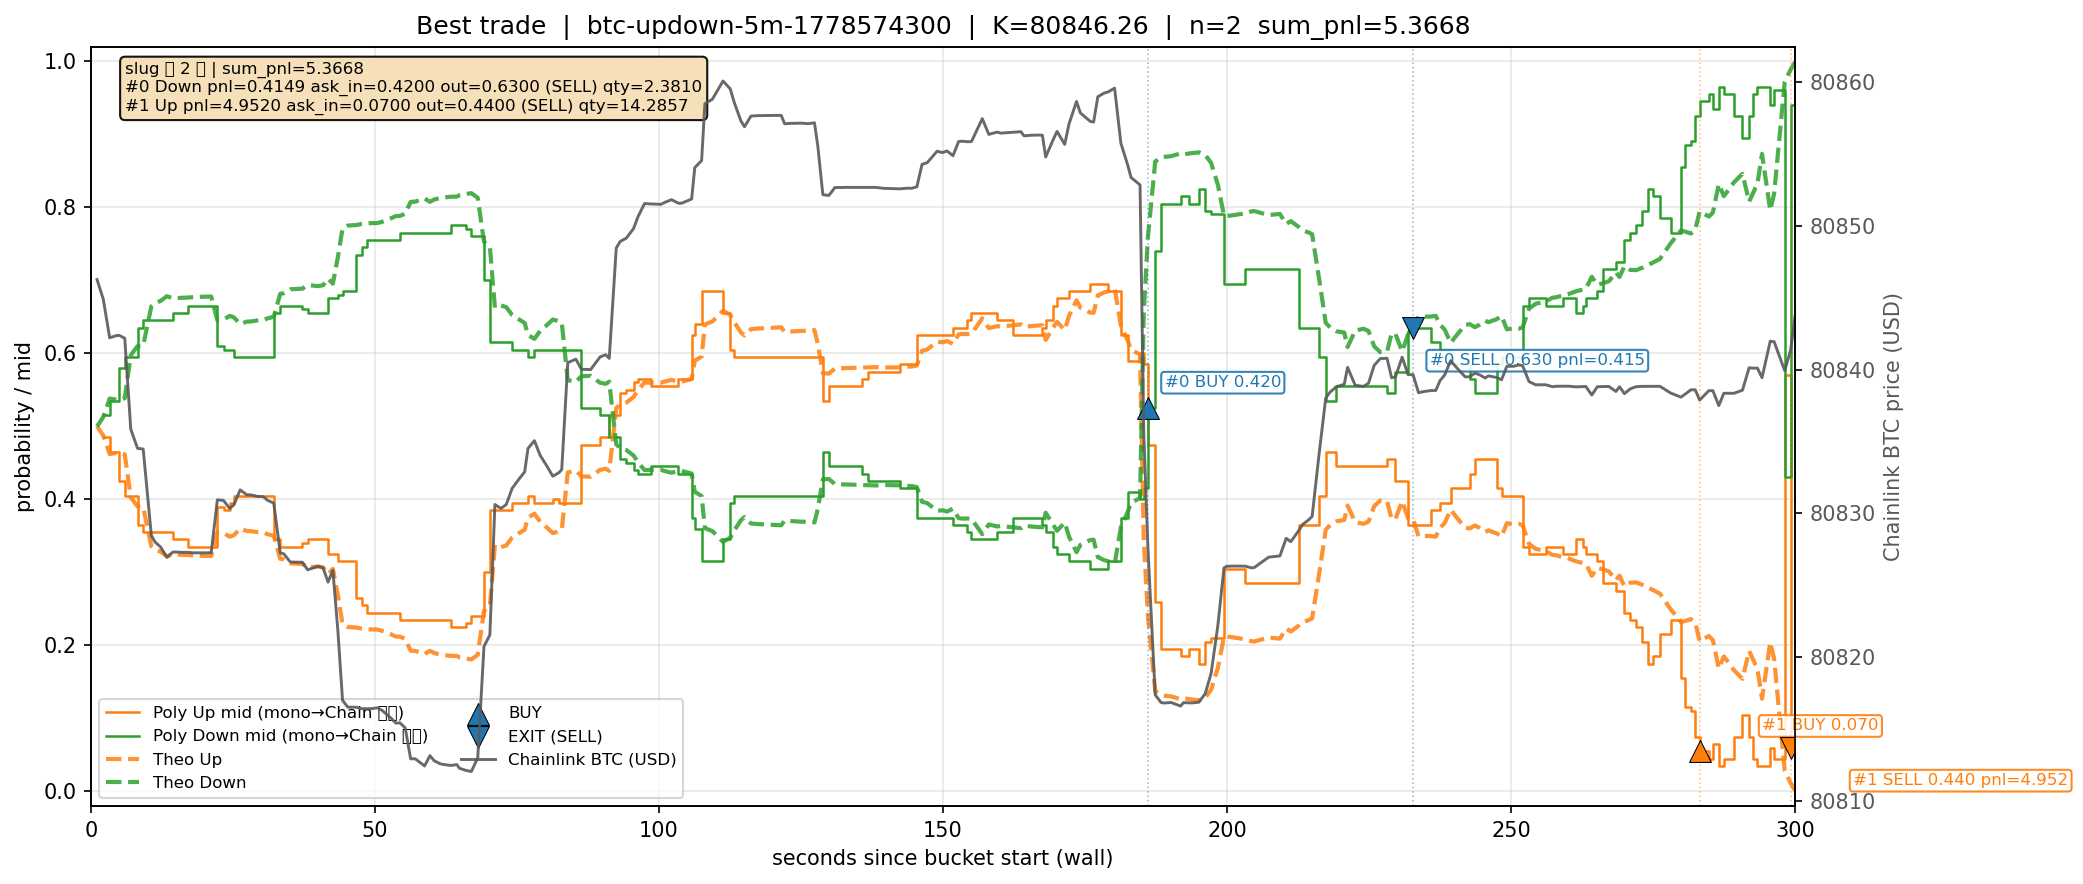
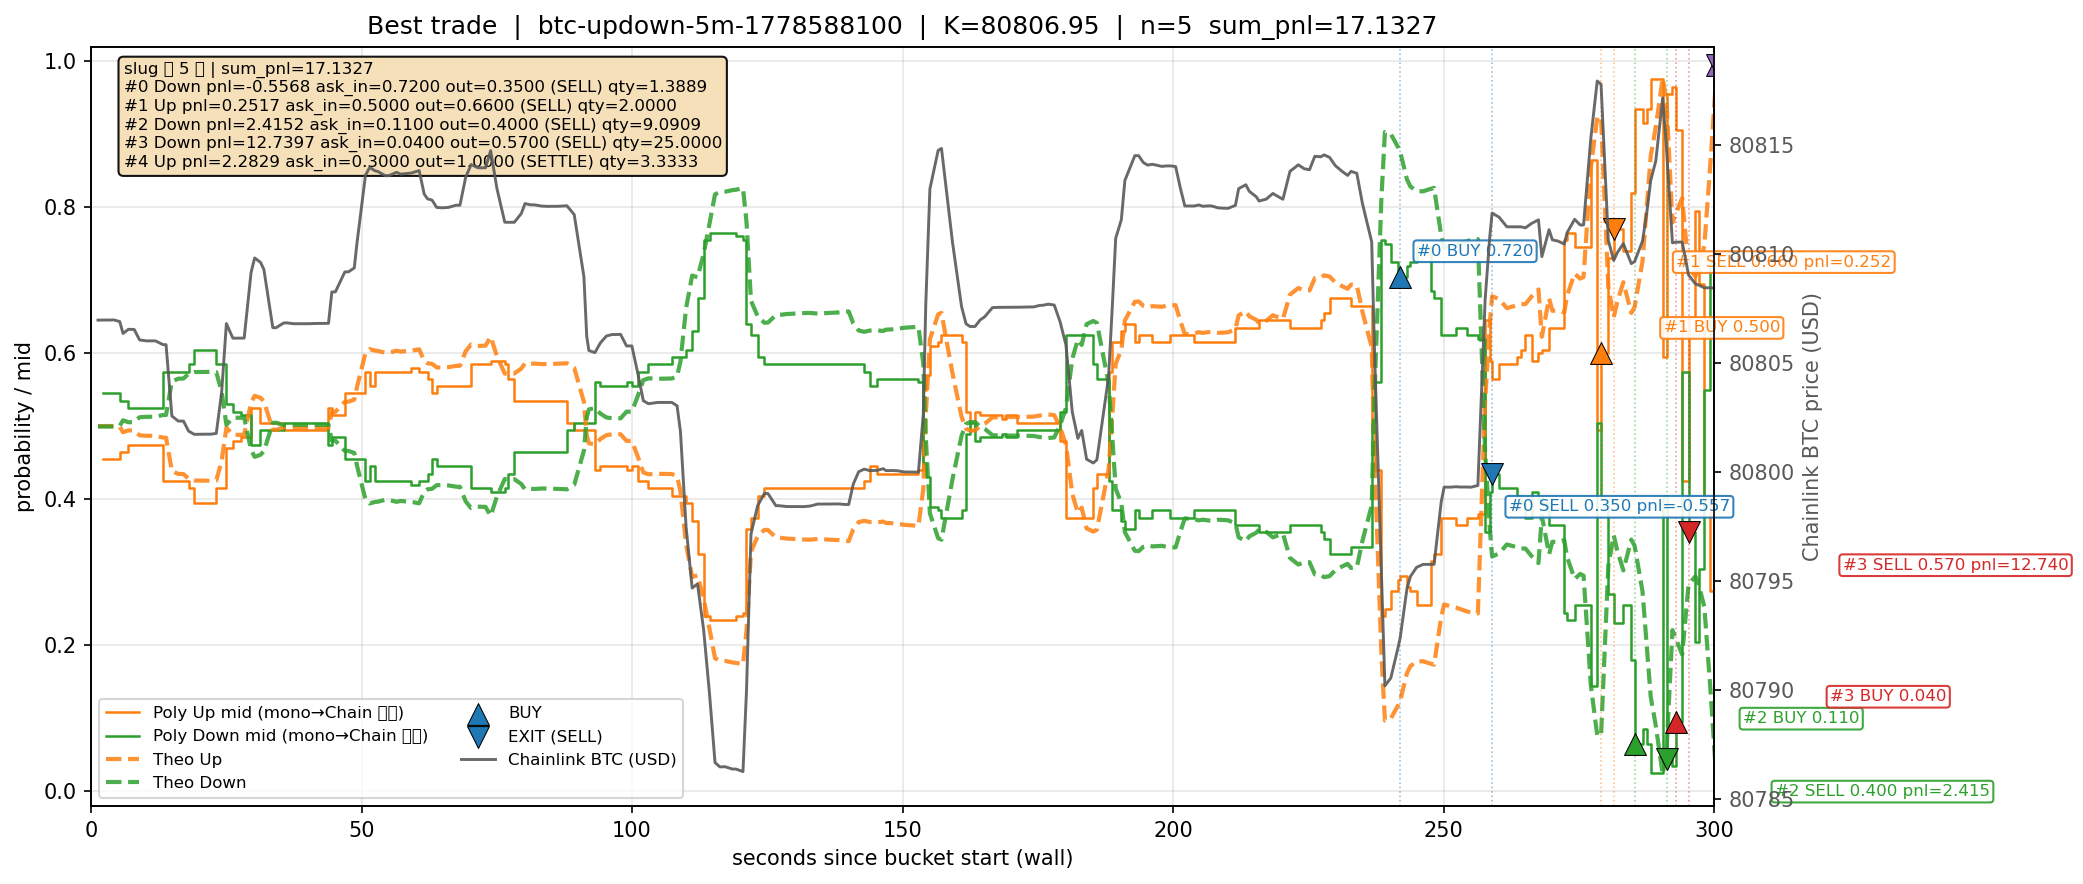
260-300

diff --git a/apps/btc_poly_runner.cpp b/apps/btc_poly_runner.cpp
@@ -425,8 +425,8 @@ int run_live_impl(bool live_execution, int argc, char** argv) {
   double close_eps = 0.0;
   /// BUY only when local-wall seconds since bucket start in [min, max] (aligns with backtest.ipynb cell 10).
   bool use_entry_elapsed_window = true;
-  double entry_elapsed_min_sec = 250.0;
-  double entry_elapsed_max_sec = 290.0;
+  double entry_elapsed_min_sec = 260.0;
+  double entry_elapsed_max_sec = 300.0;
   int lat_ms = live_execution ? 0 : 100;  // data/backtest.ipynb LAT_MS
   double fee_rate = 0.075;                // POLY_TAKER_FEE_RATE in backtest.ipynb
   double max_loss_usd = std::numeric_limits<double>::infinity();
@@ -566,9 +566,9 @@ int run_live_impl(bool live_execution, int argc, char** argv) {
                    "                             (vs --initial-cash baseline; default: no cap)\n"
                    "  --fixed-spend-usd X        each BUY uses X USDC notional (overrides --risk-frac);\n"
                    "                             still capped by cash; Polymarket min ~$1 applies\n"
-                   "  --entry-elapsed-min-sec S  (with max; default 250; local wall sec since bucket start,\n"
+                   "  --entry-elapsed-min-sec S  (with max; default 260; local wall sec since bucket start,\n"
                    "                             same idea as backtest.ipynb cell 10 histogram)\n"
-                   "  --entry-elapsed-max-sec S  (default 290; inclusive)\n"
+                   "  --entry-elapsed-max-sec S  (default 300; inclusive)\n"
                    "  --no-entry-elapsed-window  allow BUY any time in bucket (disables the above)\n"
                    "  --sigma S                  (fallback when bucket sigma missing)\n"
                    "  --sigma-step-ms N          (resample step for GARCH input + realized fallback)\n"
